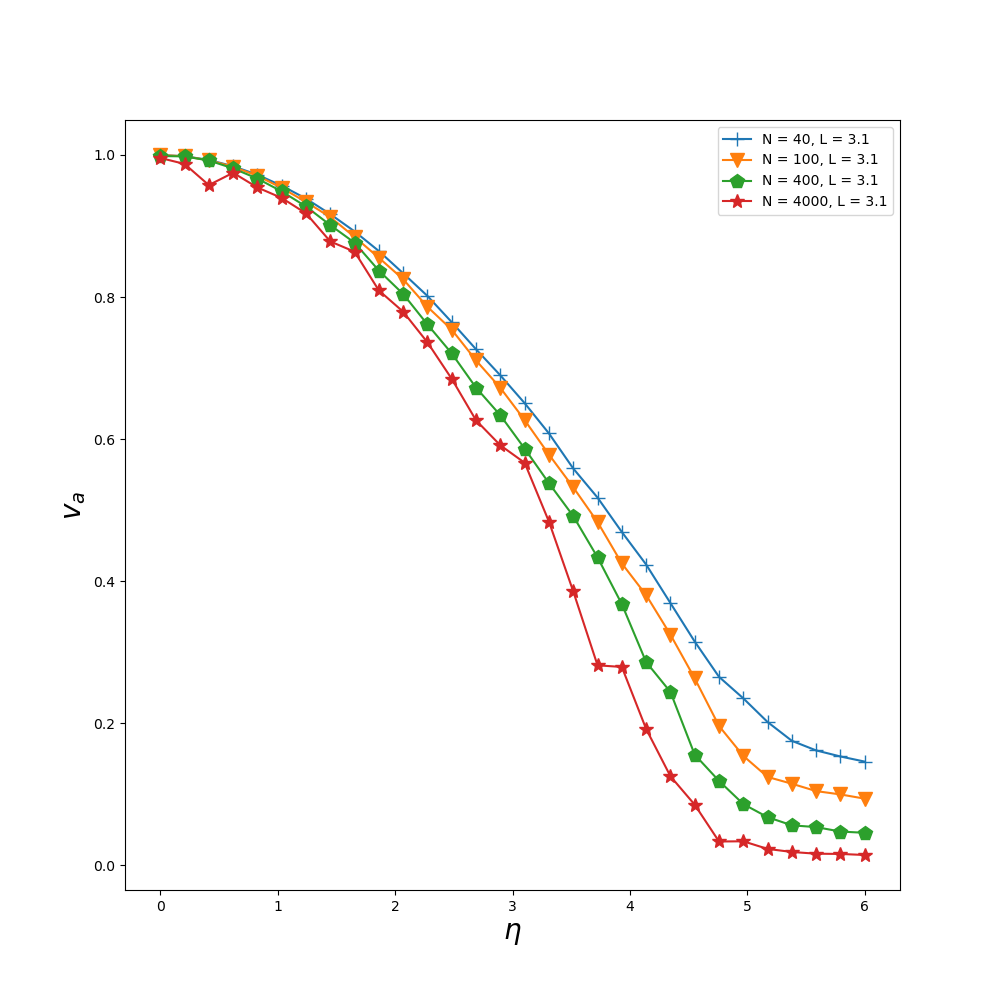
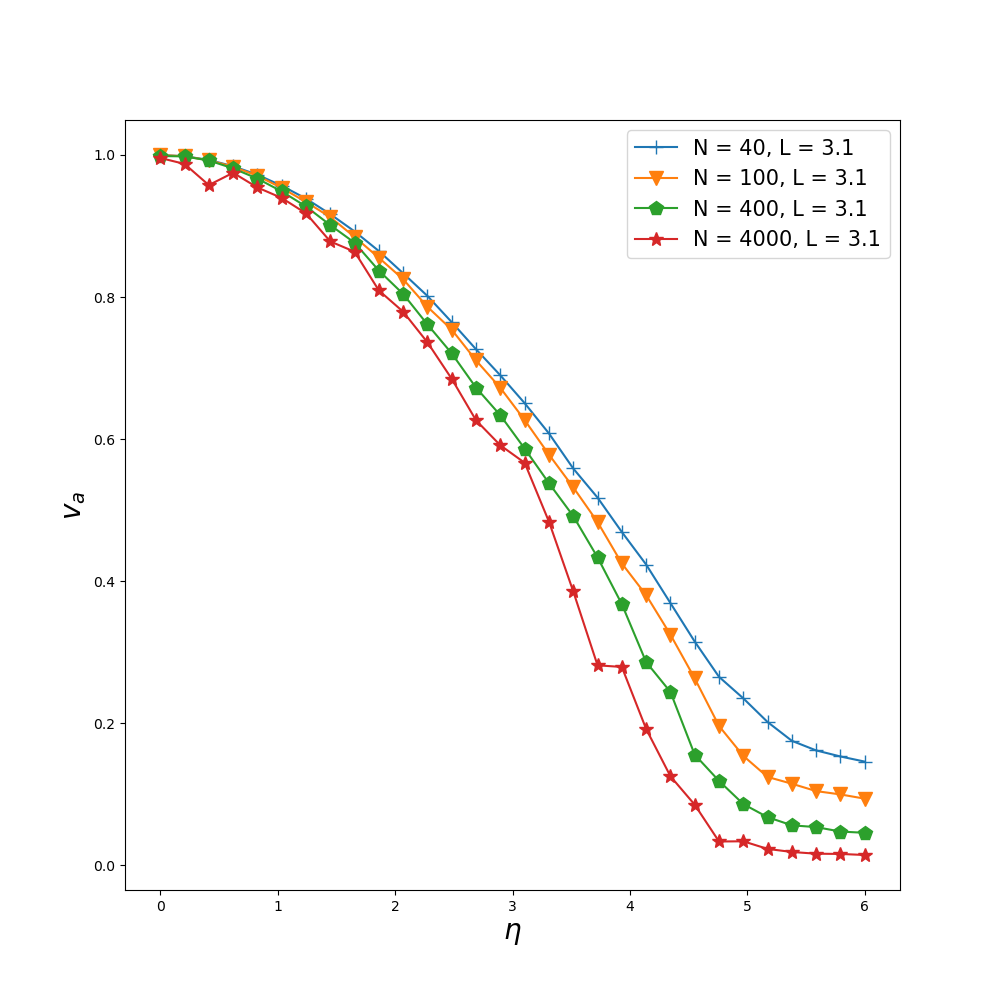
updates

Changed region(s): [[0.651, 0.124, 0.899, 0.248]]

diff --git a/vicsek_fov.py b/vicsek_fov.py
@@ -1,0 +1,124 @@
+"""
+Author : Aryaman Bhutani
+S.R. No: 18721
+PH 325 Advanced Statistical Physics
+"""
+import numpy as np
+import time
+import scipy
+import multiprocessing
+
+# Defining the function to calculate the distance between two particles with periodic boundary conditions
+
+def distance(x1, y1, x2, y2, *params):
+    L = params[2]
+    if np.abs(y1-y2) < L/2:
+        dy = np.abs(y1-y2)
+    else:
+        dy = L - np.abs(y1-y2)
+    
+    if np.abs(x1-x2) < L/2:
+        dx = np.abs(x1-x2)
+    else:
+        dx = L - np.abs(x1-x2)
+    return np.sqrt(dx**2 + dy**2)
+
+# Calculating mean theta value
+
+
+def mean_theta(ckdtree, theta_in, *params):
+    N = int(params[0])
+    R = params[5]
+    mean_theta = np.zeros((N, 1))
+  
+    for i in range(N):
+        nearest_neighbour = tree.query_ball_point(coord[i], R)
+        avg_sin = np.mean(np.sin(theta_in[nearest_neighbour]))
+        avg_cos = np.mean(np.cos(theta_in[nearest_neighbour]))
+        mean_theta[i] = np.arctan2(avg_sin, avg_cos)
+    return mean_theta
+
+# Updating the positions and velocities of the particles
+
+def update(x, y, theta, *params):
+    N = int(params[0])
+    v = params[1]
+    L = params[2]
+    dt = params[3]
+    eta = params[6]
+    coord = np.concatenate((x, y), axis=1)
+    tree = scipy.spatial.cKDTree(coord, boxsize=(params[2], params[2]))
+    vx = v*np.cos(theta)
+    vy = v*np.sin(theta)
+    theta = (mean_theta(tree, theta, *params) + np.random.uniform(-eta/2, eta/2, (N, 1)))
+    x = (x + vx*dt)%L
+    y = (y + vy*dt)%L
+    return x, y, theta
+
+
+def compute(*params):
+    # Reading the parameters from the file
+    N = int(params[0])
+    v = params[1]
+    L = params[2]
+    dt = params[3]
+    t_max = params[4]
+    R = params[5]
+    eta = params[6]
+    seed = int(params[7])
+    #np.random.seed(seed)
+
+    # Defining the initial positions and velocities
+    x = np.random.uniform(0, L, (N, 1))
+    y = np.random.uniform(0, L, (N, 1))
+    theta = np.random.uniform(-np.pi, np.pi, (N, 1))
+    X = np.zeros((int(t_max/dt), N))
+    Y = np.zeros((int(t_max/dt), N))
+    Theta = np.zeros((int(t_max/dt), N))
+
+    # Calculating the positions and velocities of the particles at different times
+    t = 0
+    for i in range(int(t_max/dt)):
+        X[i, :] = x.reshape(N)
+        Y[i, :] = y.reshape(N)
+        Theta[i, :] = theta.reshape(N)
+        x, y, theta = update(x, y, theta, *params)
+        t = t + dt
+
+    # Saving the data in a file
+    data = np.stack((X, Y, Theta))
+    return data
+
+
+# Reading the parameters from the file
+param_list = np.loadtxt('params.txt', delimiter=',')
+
+
+def vel(i):
+    param = param_list[i]
+    data = compute(*param)
+    #np.save(f'./data/viscek_n={param[6]:0,.1f}N={int(param[0])}L={int(param[2])}.npy', data)
+    Vx = np.cos(data[2, :, :])
+    Vy = np.sin(data[2, :, :])
+    V = np.stack((Vx, Vy), axis=0)
+    V = np.sum(V, axis=2)
+    v = np.sqrt(np.sum(V**2, axis=0))/param[0]
+    #print('Average Velocity = ', v)
+    return v
+
+if __name__ == '__main__':
+    start = time.time()
+    print(param_list.shape)
+    iters = int(param_list.shape[0])
+    n_proc = multiprocessing.cpu_count()
+    print('Number of processors = ', n_proc)
+    with multiprocessing.Pool(processes=n_proc) as pool:
+        V_a = pool.map(vel, list(range(iters)))
+end = time.time()
+np.save(f'V_a_rho.npy', V_a)
+print('Time taken = ', end-start, 's')
+
+
+
+
+

diff --git a/ploter.py b/ploter.py
@@ -119,7 +119,7 @@ data = np.mean(data[:, -100:], axis=1)
 plt.plot(eta, data, '-*', ms = 10, label='N = 4000, L = 3.1')
 
 #plt.scatter(eta, data[40:50], label='N = 1000, L = 3.1')
-plt.legend()
+plt.legend(fontsize = 15)
 plt.xlabel('$\eta$', fontsize = 20)
 plt.ylabel('$v_a$', fontsize = 20)
 plt.savefig('V_a.png')
@@ -187,7 +187,7 @@ ax.text(0.3, 0.7, 'slope = ' + str(round(a, 2)) + '$\pm$' + str(round(stderr, 3)
 ax.set_xlabel('$(\eta_c(L) - \eta)/\eta_c(L)$', fontsize = 20)
 ax.set_ylabel('$v_a$', fontsize = 20)
 
-ax.legend()
+ax.legend(fontsize = 15)
 
 plt.savefig('eta.png')
 
@@ -200,7 +200,7 @@ rho = np.logspace(1.6, 3.6, 50)/(20*20)
 plt.scatter(rho, data, s = 100 , marker = '+' , label = 'L = 20, $\eta$ = 2')
 plt.xlabel(r'$\rho$', fontsize = 20)
 plt.ylabel('$v_a$', fontsize = 20)
-plt.legend()
+plt.legend(fontsize = 15)
 plt.savefig('v_a_rho.png')
 
 plt.figure( figsize=(10, 10))
